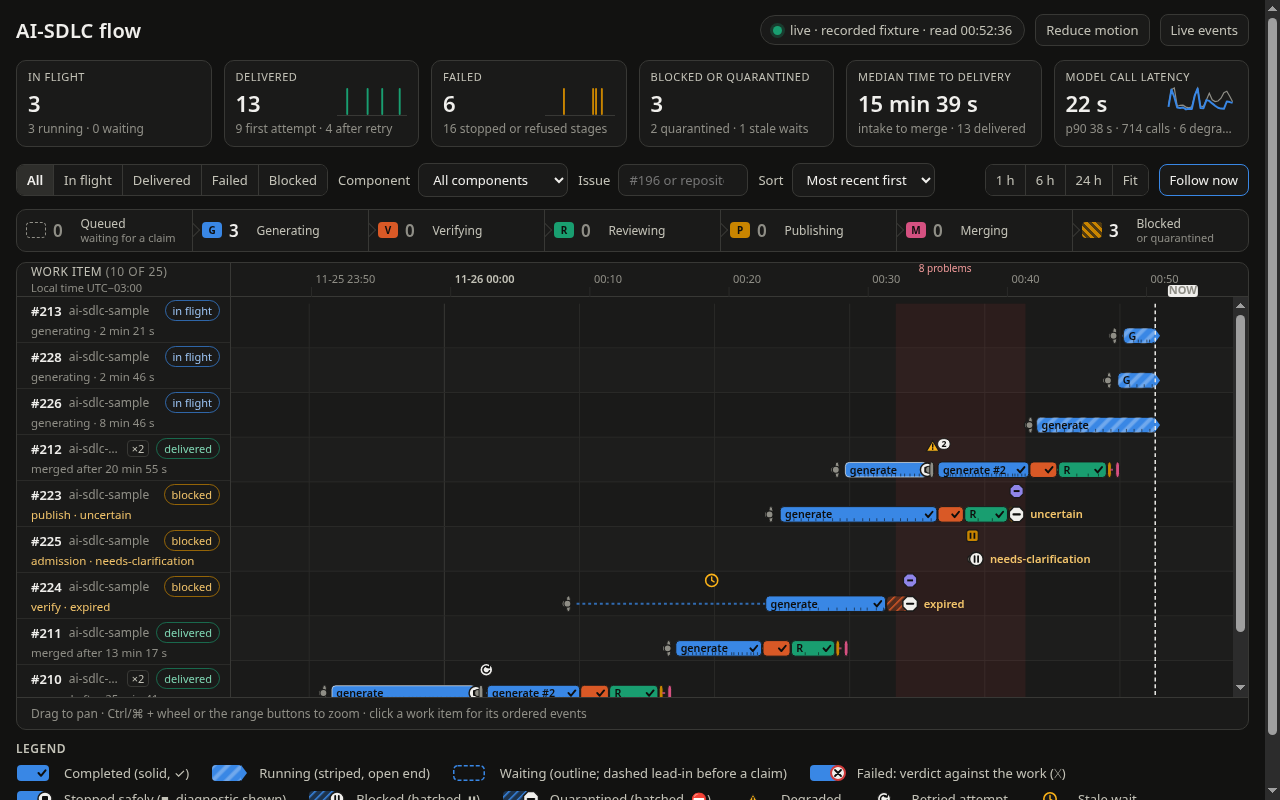
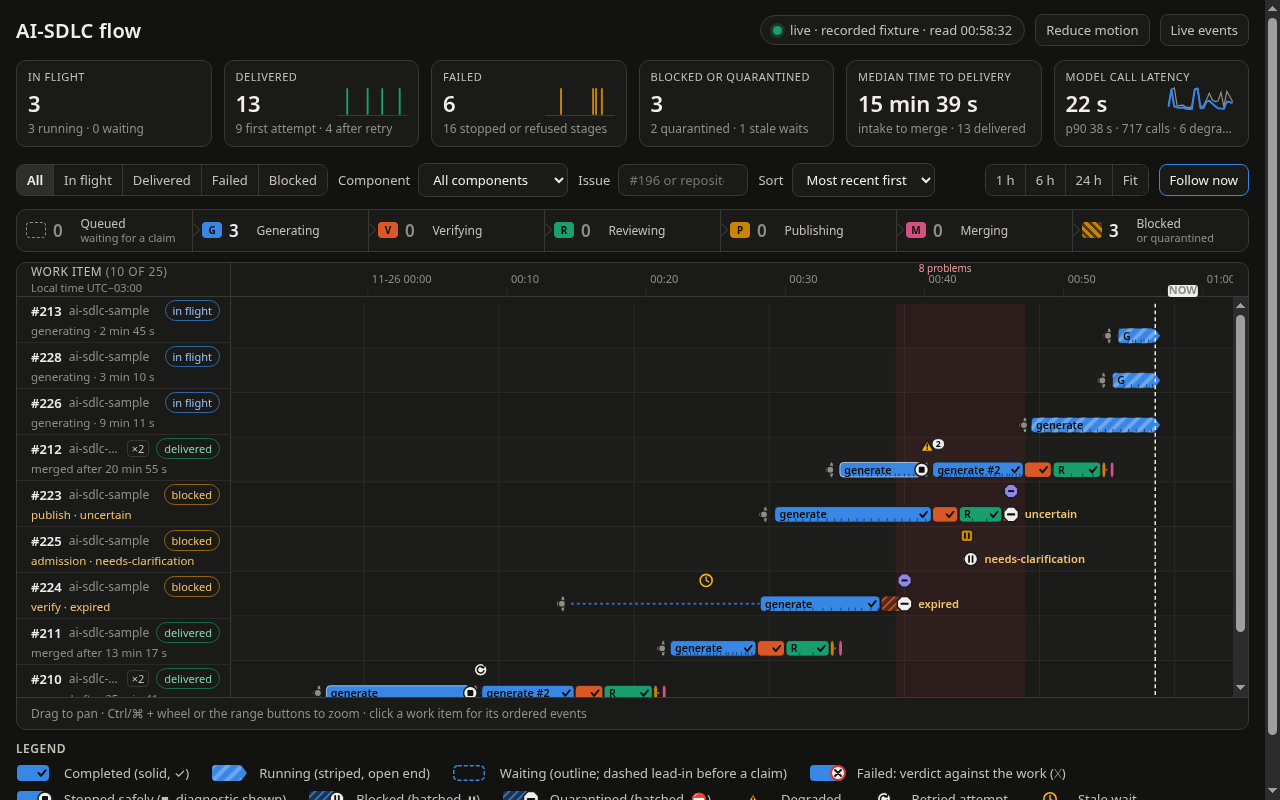
Flow console UI round 4: outcome badges above every bar
A retry that started right after a safe stop drew its bar over the stop's
badge. Badges now go on a layer above all bars, so the stop, refusal,
block and quarantine glyphs stay visible next to the following attempt.

diff --git a/runtime/k8s/internal/flowconsole/ui/app.js b/runtime/k8s/internal/flowconsole/ui/app.js
@@ -562,7 +562,7 @@
     return out;
   }
 
-  function drawSegment(parent, lane, s, y0, w, dim) {
+  function drawSegment(parent, lane, s, y0, w, dim, overlay) {
     const LANE_H = laneHeight(), cy = y0 + LANE_H - 13;
     const xq = x(s.queued), xs = s.start !== null ? x(s.start) : x(s.drawEnd), xe = x(s.drawEnd);
     if (xe < -20 || xq > w + 20) return null;
@@ -599,7 +599,9 @@
     const label = room >= name.length * 6.3 ? name : room >= 9 ? STAGE_INITIAL[s.stage] : '';
     if (label) text(g, { class: 'bar-label' + (s.outcome === 'waiting' || s.outcome === 'blocked' || s.outcome === 'quarantined' ? ' light' : ''), x: x0 + 5, y: cy + 4 }, label);
     if (s.outcome === 'completed' && width > 22) check(g, x0 + width - 8, cy);
-    if (badged) badge(g, s.outcome, x0 + width, cy);
+    // Badges go on a layer above every bar, so a retry that starts right
+    // after a stop cannot cover the stop's glyph.
+    if (badged) badge(svg('g', { opacity: dim ? 0.28 : 1 }, overlay || g), s.outcome, x0 + width, cy);
     return { g, x0: Math.min(xq, x0), x1: x0 + width + (badged ? 8 : 6) };
   }
 
@@ -685,12 +687,13 @@
     });
 
     const bars = svg('g', {}, chart);
+    const overlay = svg('g', {}, chart);
     lanes.slice(first, last).forEach((lane, k) => {
       const i = first + k, y0 = i * LANE_H;
       const dim = state.filter.component;
       let lastEnd = -Infinity, finalBox = null;
       for (const s of lane.segments) {
-        const box = drawSegment(bars, lane, s, y0, w, dim && s.events[0].component !== dim);
+        const box = drawSegment(bars, lane, s, y0, w, dim && s.events[0].component !== dim, overlay);
         if (!box) continue;
         lastEnd = Math.max(lastEnd, box.x1);
         if (s === lane.final) finalBox = box;
